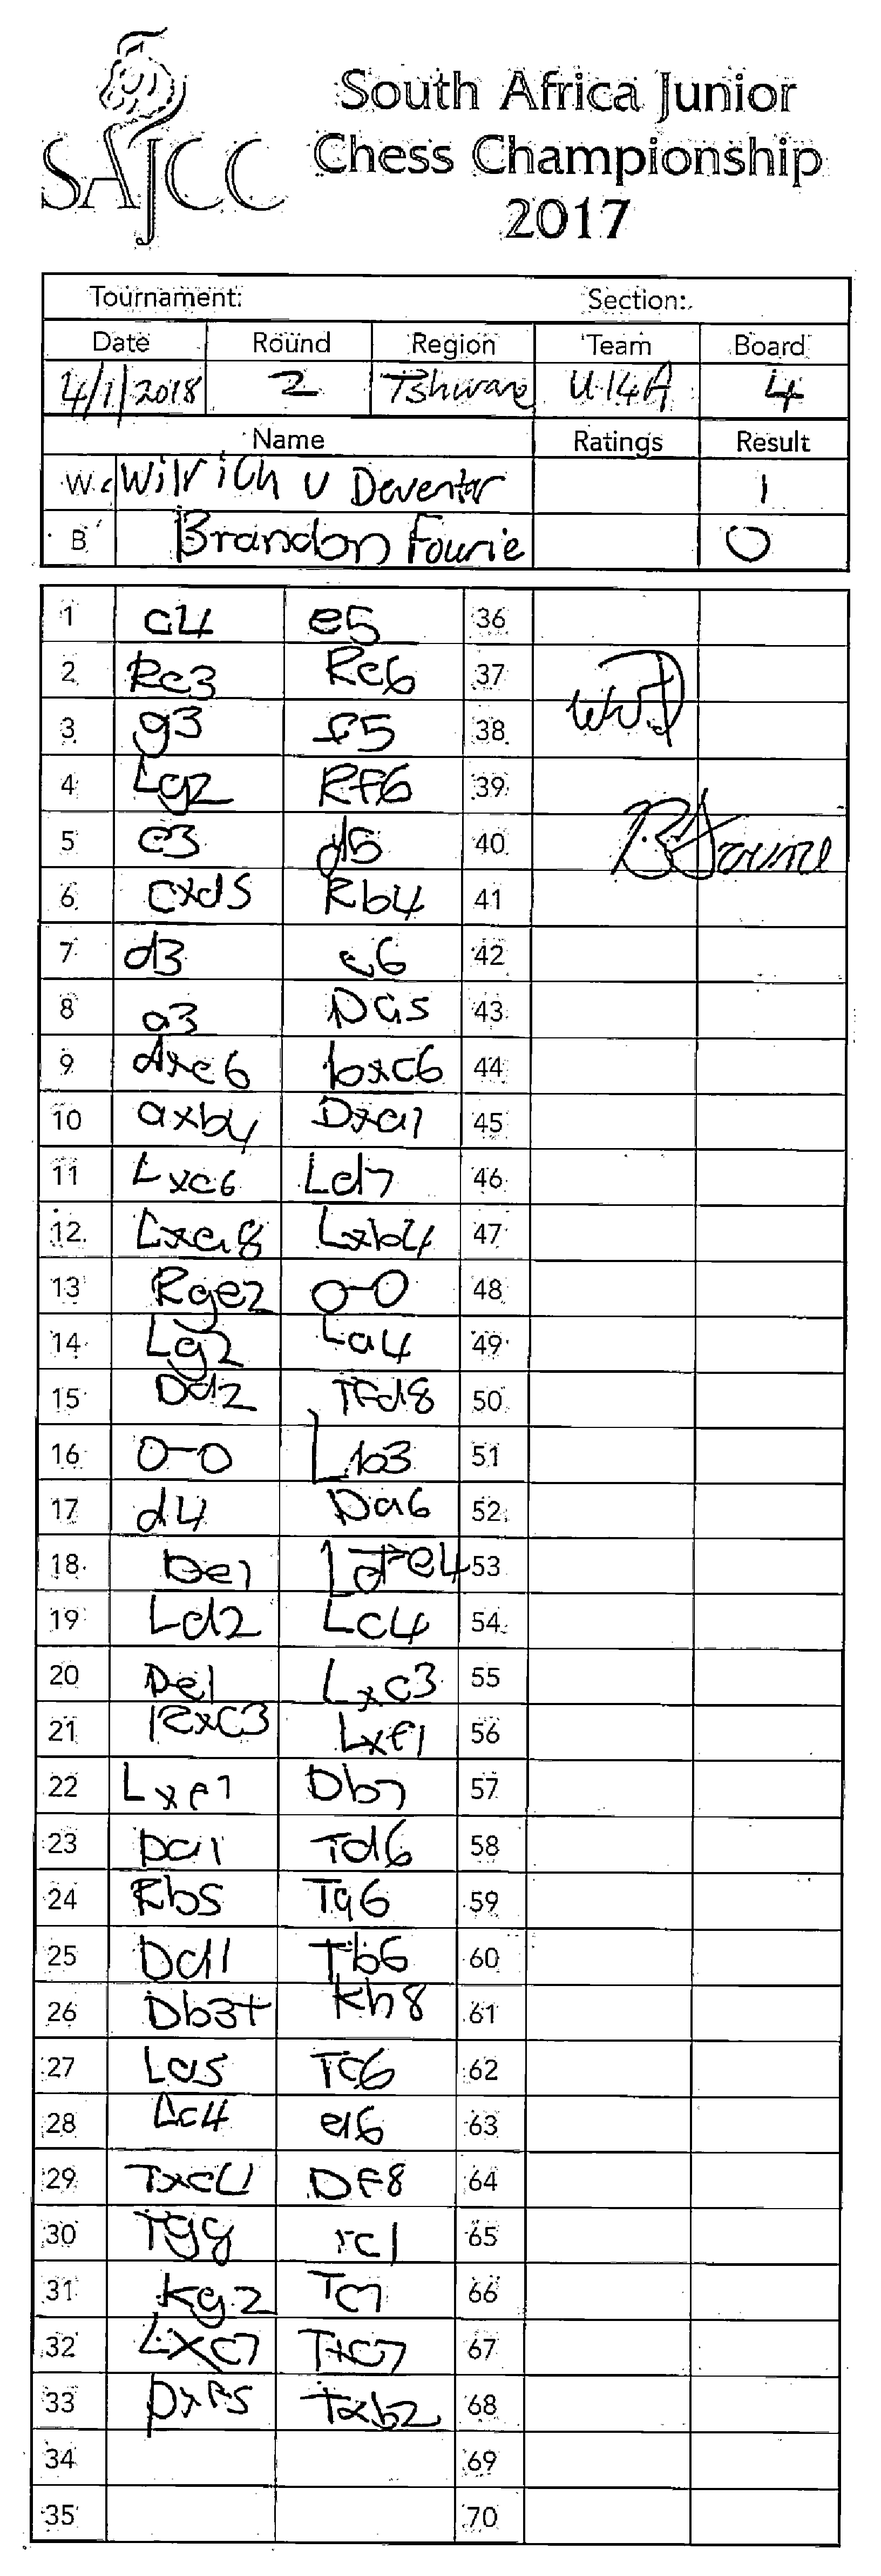
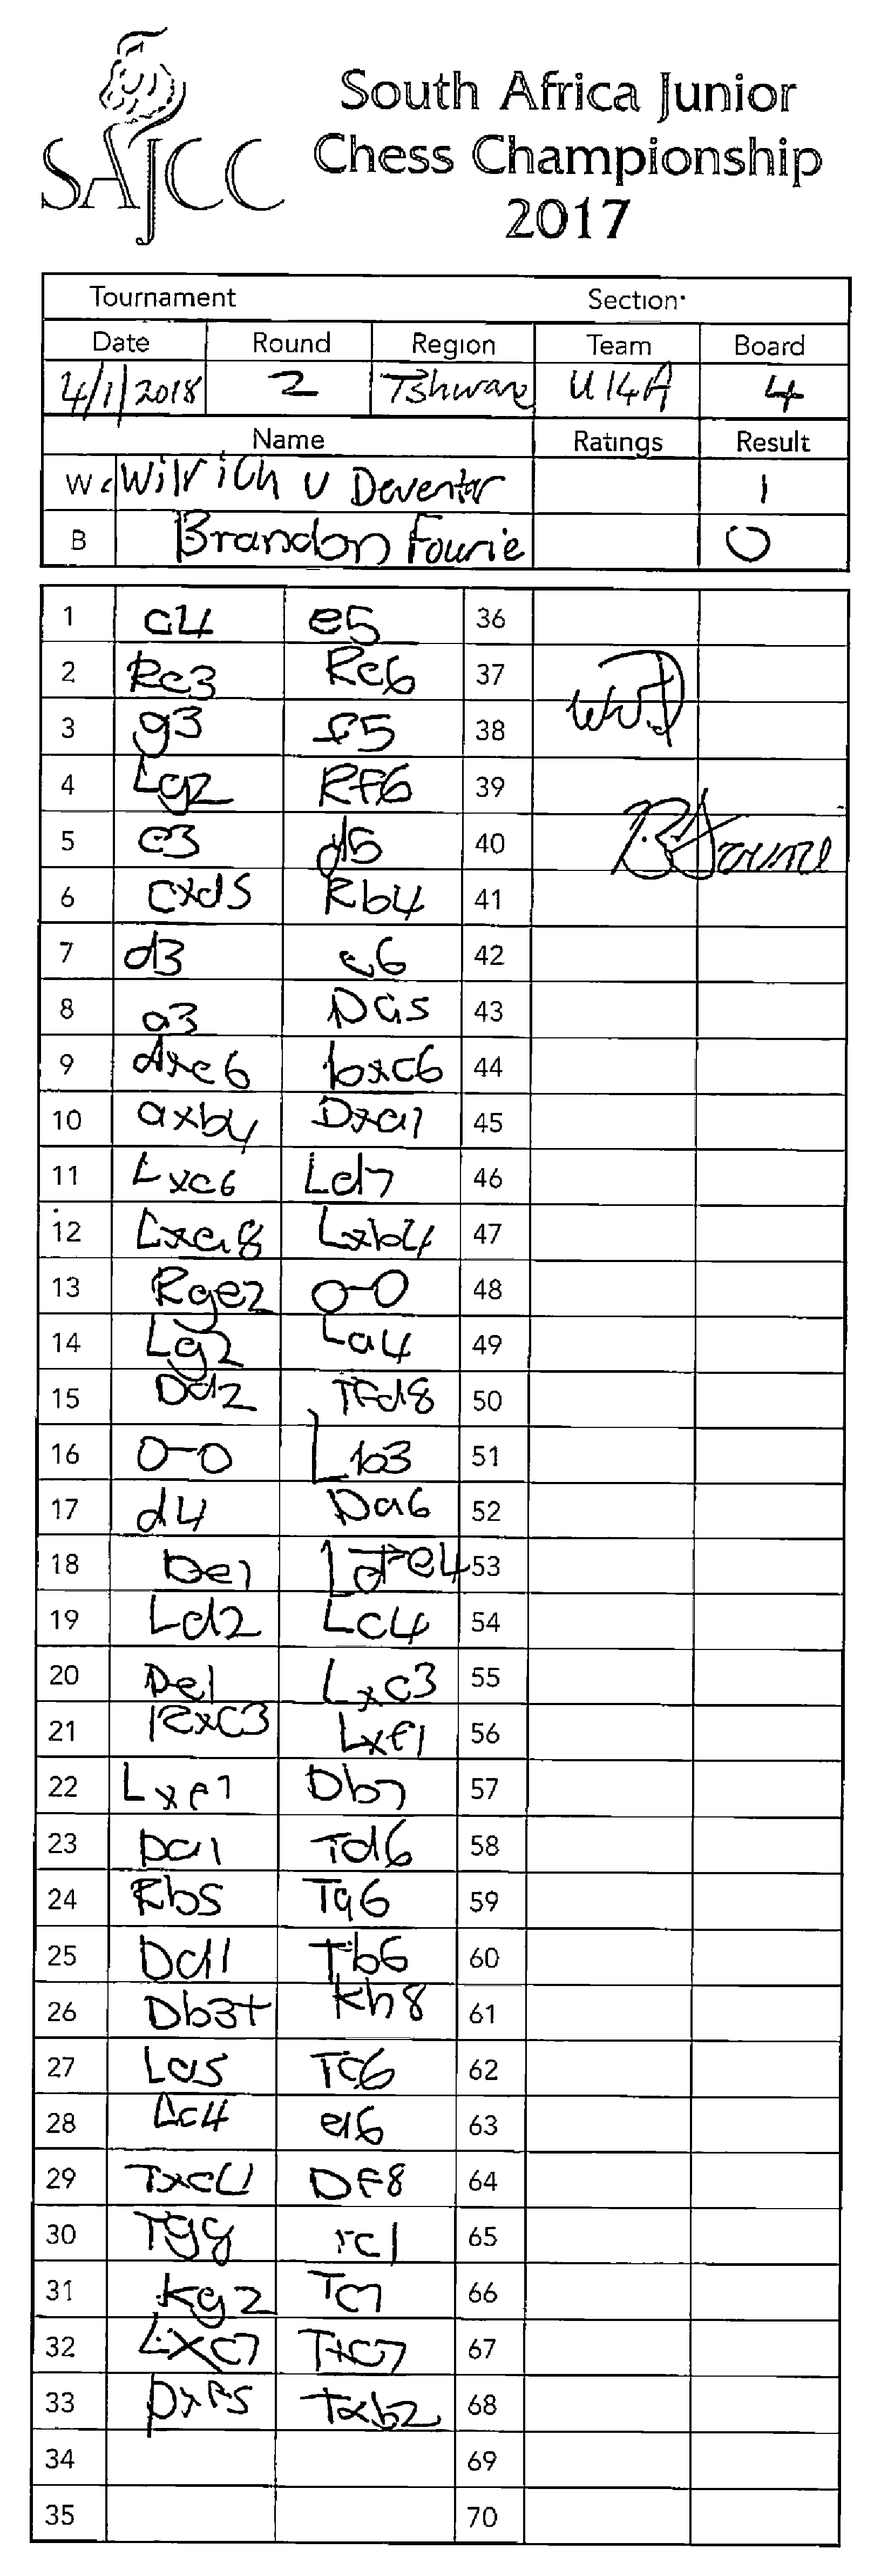
cell cropped fixed as well as order of cell edge points in array

diff --git a/segmentation.py b/segmentation.py
@@ -12,9 +12,14 @@ VERTICAL_THRESHOLD = 500
 
 def segmentTableCells(png):
 
+    image = Image.open("images/preprocessed_image.png")
+    width, height = image.size
 
-    image = cv2.imread("images/preprocessed_image.png")
-    image_crop = cv2.imread("images/preprocessed_image.png")
+    crop_image = image.crop((0, 1065, width, height))
+    crop_image.save("images/justNumbers.png")
+
+    image = cv2.imread("images/justNumbers.png")
+    image_crop = cv2.imread("images/justNumbers.png")
     # image = cv2.GaussianBlur(image, (7, 7), 0)
     gray = cv2.cvtColor(image, cv2.COLOR_BGR2GRAY)
     mask = nump.zeros(gray.shape, nump.uint8)
@@ -68,7 +73,10 @@ def segmentTableCells(png):
     result = cv2.bitwise_and(closex, closey)
 
     _, contour, hierarchy = cv2.findContours(result, cv2.RETR_LIST, cv2.CHAIN_APPROX_SIMPLE)
-    vertices = []
+
+    vertices_multi = []
+    for x in range(0, 7):
+        vertices_multi.append([])
     yvals = []
     for cnt in contour:
         mom = cv2.moments(cnt)
@@ -81,123 +89,76 @@ def segmentTableCells(png):
         # result = cv2.circle(image, (x, y), 10, (0, 0, 255), -1)
         if 55 <= x <= 85:
             yvals.append(y)
-            vertices.append((x, y))
-        elif 175 <= x <= 215:
-            vertices.append((x, y))
+            vertices_multi[0].append((x, y))
+            # result = cv2.circle(image, (x, y), 10, (0, 255, 0), -1)
+        elif 190 <= x <= 215:
+            vertices_multi[1].append((x, y))
+            # result = cv2.circle(image, (x, y), 10, (0, 255, 0), -1)
         elif 505 <= x <= 530:
-            vertices.append((x, y))
+            vertices_multi[2].append((x, y))
+            # result = cv2.circle(image, (x, y), 10, (0, 255, 0), -1)
         elif 840 <= x <= 860:
-            vertices.append((x, y))
-        elif 373 <= x <= 390:
-            vertices.append((x, y))
-        elif 673 <= x <= 690:
-            vertices.append((x, y))
+            vertices_multi[3].append((x, y))
+            # result = cv2.circle(image, (x, y), 10, (0, 255, 0), -1)
         elif 965 <= x <= 990:
-            vertices.append((x, y))
-        elif 1265 <= x <= 1300:
-            vertices.append((x, y))
+            vertices_multi[4].append((x, y))
+            # result = cv2.circle(image, (x, y), 10, (0, 255, 0), -1)
+        elif 1265 <= x <= 1320:
+            vertices_multi[5].append((x, y))
+            # result = cv2.circle(image, (x, y), 10, (0, 255, 0), -1)
         elif 1550 <= x <= 1600:
-            vertices.append((x, y))
+            vertices_multi[6].append((x, y))
+            # result = cv2.circle(image, (x, y), 10, (0, 255, 0), -1)
+
+    '''elif 175 <= x <= 215:
+          elif 673 <= x <= 690:
+          elif 373 <= x <= 390'''
 
     reordered_vertices = []
-    for x in vertices:
-        x1 = x
+    for x in range(0, 7):
+        reordered_vertices.append([])
+
+    row_counter = 0
+    for row in vertices_multi:
         init = False
-        for y in yvals:
-            if y - 10 <= x1[1] <= y + 20:
-                init = True
-        if init == True:
-            result = cv2.circle(image, (x[0], x[1]), 10, (0, 255, 0), -1)
-            reordered_vertices.append(x)
-            init = False
-        else:
-            del x
-
-    result = cv2.resize(result, None, fx=0.20, fy=0.20, interpolation=cv2.INTER_LINEAR)
-    cv2.imshow("A", result)
-    cv2.waitKey(0)
-
-    vertices = []
-    while reordered_vertices:
-        vertices.append(reordered_vertices.pop())
-
-    temp = []
-    reordered_vertices = []
-    for x in vertices:
-        if 1550 <= x[0] <= 1600:
-            temp.append(x)
-            for i in range(len(temp)):
-                min_val = min(temp[i:])
-                min_index = temp[i:].index(min_val)
-                temp[i + min_index] = temp[i]
-                temp[i] = min_val
-            while temp:
-                reordered_vertices.append(temp.pop(0))
-        else:
-            temp.append(x)
+        for column in row:
+            for y in yvals:
+                if y - 10 <= column[1] <= y + 20:
+                    init = True
+            if init:
+                reordered_vertices[row_counter].insert(0, column)
+                init = False
+            else:
+                del column
+        row_counter = row_counter + 1
 
     performCellSegmentation(image_crop, reordered_vertices)
     # iterateTest(image, reordered_vertices)
     return
 
 def iterateTest(image, vertices):
-
-    crop = cv2.circle(image, vertices[0], 10, (0, 255, 255), -1)
-    print(vertices.pop(0))
-    crop = cv2.resize(crop, None, fx=0.20, fy=0.20, interpolation=cv2.INTER_LINEAR)
-    cv2.imshow("B", crop)
-    cv2.waitKey(0)
-    iterateTest(image, vertices)
+    for row in vertices:
+        for column in row:
+            print(column)
+            crop = cv2.circle(image, column, 10, (0, 255, 255), -1)
+            crop = cv2.resize(crop, None, fx=0.20, fy=0.20, interpolation=cv2.INTER_LINEAR)
+            cv2.imshow("B", crop)
+            cv2.waitKey(0)
     return
 
 
 def performCellSegmentation(image, vertices):
 
-    last = True
-    if not vertices:
-        return
-    else:
-        top_left = vertices[0]
-        vertices.pop(0)
-        crop = cv2.circle(image, top_left, 10, (0, 255, 255), -1)
-        top_right = vertices[0]
-        if 1550 <= top_right[0] <= 1600:
-            vertices.pop(0)
-        else:
-            last = False
-        crop = cv2.circle(image, top_right, 10, (0, 255, 255), -1)
-
-        bottom_left = None
-
-        for x in vertices:
-            if (top_left[0] - 15) <= x[0] <= (top_left[0] + 15):
-                bottom_left = x
-                crop = cv2.circle(image, bottom_left, 10, (0, 255, 255), -1)
-                break
-
-        bottom_right = None
-
-        for x in vertices:
-            if last == False:
-                last = True
-                continue
-
-            if (top_right[0] - 15) <= x[0] <= (top_right[0] + 15):
-                bottom_right = x
-                crop = cv2.circle(image, bottom_right, 10, (0, 255, 255), -1)
-                break
-
-        img = Image.open("images/preprocessed_image.png")
-
-        #print(top_left[0])
-        #print(bottom_right)
-        crop_image = img.crop((top_left[0] + 6, top_left[1] + 6, bottom_right[0] - 6, bottom_right[1] - 6))
-        crop_image.save(str(top_left[0]) + str(bottom_right[0]) + ".png")
-        crop = cv2.resize(crop, None, fx=0.20, fy=0.20, interpolation=cv2.INTER_LINEAR)
-        cv2.imshow("B", crop)
-        cv2.waitKey(0)
-
-        return performCellSegmentation(image, vertices)
+    for x in range(0, 3):
+        count_vals = 1
+        for val in vertices[x][:-1]:
+            top_left = val
+            bottom_right = vertices[x+1][count_vals]
+            img = Image.open("images/justNumbers.png")
+            # crop_image = img.crop((top_left[0] - 5, top_left[1] - 5, bottom_right[0] + 5, bottom_right[1] + 5))
+            crop_image = img.crop((top_left[0] + 6, top_left[1] + 6, bottom_right[0] - 5, bottom_right[1] - 5))
+            crop_image.save(str(x) + "_" + str(count_vals - 1) + ".png")
+            count_vals = count_vals + 1
 
 def performCharacterSegmentation(image, t_cells):
 

diff --git a/main.py b/main.py
@@ -3,6 +3,7 @@ from preprocessing import startImagePreprocessing
 from segmentation import segmentTableCells
 
 if __name__ == '__main__':
-    filename = startImagePreprocessing()
-    segmentTableCells(filename)
+    # filename = startImagePreprocessing()
+    # print(filename)
+    segmentTableCells("A")
 
